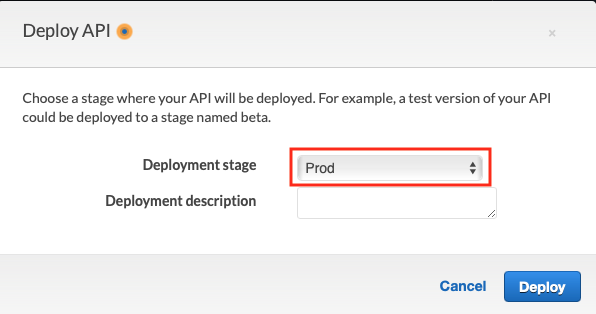
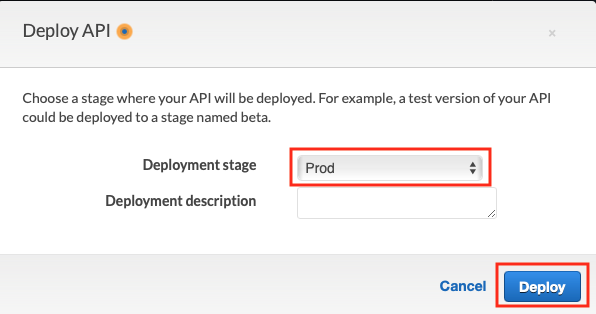
fixed typo in getting started guide, added some highlighting to a couple of doc images

Changed region(s): [[0.8154, 0.8312, 0.9966, 1.0]]

diff --git a/doc/1-02-getting-started.md b/doc/1-02-getting-started.md
@@ -525,7 +525,7 @@ We need to configure the API Gateway to pass the URL parameter `name` through to
 
 ### Deploy the API
 
-Now we have our API changes in place, now we need to deploy the API before it is available to call.
+Now we have our API changes in place, now we need to deploy the API to make it available to call.
 
 From the `Actions` menu, select `Deploy API`:
 
@@ -535,7 +535,7 @@ Select `Prod` from the `Deployment stage` dropdown. Select `Deploy`:
 
 ![aws-console-api-gateway-deploy](images/aws-console-api-gateway-deploy.png "API deploy")
 
-Your API is now available to call and the URL is shown on the following screen. Copy *your* URL:
+Your API is now deployed and available to call. The API URL is shown at the top of the following screen. Copy *your* URL:
 
 ![aws-console-api-gateway-stage-editor](images/aws-console-api-gateway-stage-editor.png "API stage editor")
 
@@ -544,7 +544,7 @@ From your terminal, replace `YOUR_URL` with the output from the previous step:
 ```bash
 curl YOUR_URL?name="api-caller"
 ```
-
+For example:
 ```bash
 # Your command should look something like this (note: this is a non-working URL)
 curl https://a1bbbzzz99.execute-api.us-east-1.amazonaws.com/Prod?name="api-caller"
@@ -574,7 +574,7 @@ Output from one or more of your Lambda invocations are available to inspect:
 
 In this guide, we've covered many of the basics with `holy-lambda`. We've covered quite a lot actually, so well done for getting this far!
 
-We created a `holy-lambda` project based on the babashka runtime to allow interactive code editing in AWS. We ran local tests and deployed our stack to AWS.
+We created a `holy-lambda` project based on the Babashka runtime to allow interactive code editing in AWS. We ran local tests and deployed our stack to AWS.
 
 We demonstrated the power of interactive editing by enhancing our code in the AWS editor and using the Lambda test feature.
 
@@ -586,7 +586,7 @@ We hope you enjoy using Clojure in AWS Lambdas using `holy-lambda`
 
 The resources created in this guide incur minimal AWS costs when they're not being executed.
 
-If you prefer to completely remove the resources using the following command:
+If you prefer to completely remove the resources using the following command to tear down and delete the `example-lambda` application stack:
 
 ```bash
 bb stack:destroy
